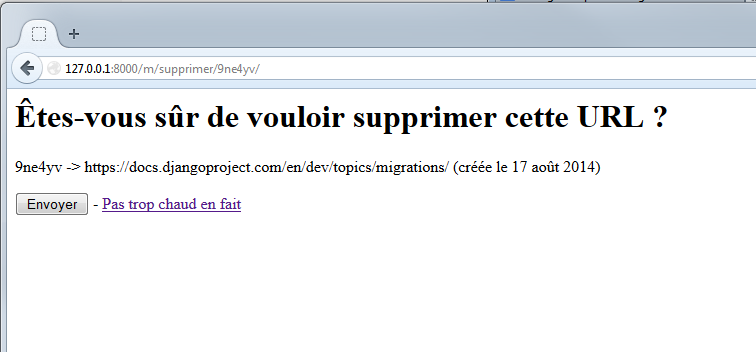
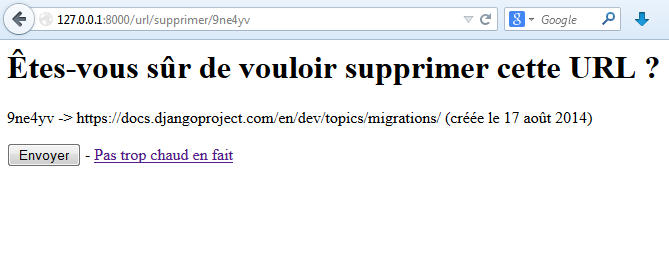
maj vues generiques

Changed region(s): [[0.0, 0.0, 1.0, 1.0]]

diff --git a/3-techniques-avancees/Chapitre_1-les-vues-generiques.md b/3-techniques-avancees/Chapitre_1-les-vues-generiques.md
@@ -1,4 +1,4 @@
-Les vues génériques
+faq/Les vues génériques
 ===================
 
 Sur la plupart des sites web, il existe certains types de pages où créer une vue comme nous l'avons fait précédemment est lourd et presque inutile : pour une simple page HTML sans informations dynamiques par exemple, ou encore de simple listes d'objets sans traitements particuliers. Django est conçu pour n'avoir à écrire que le *minimum* (philosophie DRY), le framework inclut donc un système de vues génériques, qui évite au développeur de devoir écrire des fonctions simples et identiques, nous permettant de gagner du temps et des lignes de code.
@@ -42,11 +42,12 @@ from django.conf.urls import patterns, url, include
 from blog.views import FAQView  # N'oubliez pas d'importer la classe mère
 
 urlpatterns = patterns('',
-   (r'^faq/$', FAQView.as_view()),   # Nous demandons la vue correspondant à la classe FAQView
+   (r'^faq$', FAQView.as_view()),   # Nous demandons la vue correspondant à la classe FAQView
 )
 ```
 
-C'est tout ! Lorsqu'un visiteur accède à `/blog/faq/`, le contenu du fichier `templates/blog/faq.html` sera affiché. En réalité, la méthode `as_view` de `FAQView` retourne une vue (donc une fonction classique) qui se basera sur ses attributs pour déterminer son fonctionnement. Étant donné que nous avons indiqué un template à utiliser depuis l'attribut `template_name`, la classe l'utilisera pour générer une vue adaptée.
+C'est tout ! Lorsqu'un visiteur accède à `/blog/faq`, le contenu du template `blog/faq.html` sera affiché.   
+En réalité, la méthode `as_view` de `FAQView` retourne une vue (donc une fonction classique) qui se basera sur ses attributs pour déterminer son fonctionnement. Étant donné que nous avons indiqué un template à utiliser depuis l'attribut `template_name`, la classe l'utilisera pour générer une vue adaptée.
 
 Nous avons indiqué précédemment qu'il y avait deux méthodes pour utiliser les vues génériques. Le principe de la seconde est de directement instancier `TemplateView` dans le fichier `urls.py`, en lui passant en argument notre `template_name` :
 
@@ -55,7 +56,7 @@ from django.conf.urls import patterns, url, include
 from django.views.generic import TemplateView  # L'import a changé, attention !
 
 urlpatterns = patterns('',
-   url(r'^faq/', TemplateView.as_view(template_name='blog/faq.html')),
+   url(r'^faq', TemplateView.as_view(template_name='blog/faq.html')),
 )
 ```
 
@@ -123,7 +124,7 @@ urlpatterns = patterns('',
 )
 ```
 
-C'est l'occasion d'expliquer l'intérêt de l'argument `name`. Pour profiter au maximum des possibilités de Django, il est possible d'écrire les URL via la fonction `reverse`, et son tag associé dans les templates. L'utilisation du tag `url` se fera dès lors ainsi : {% url "blog_liste" %}. Cette fonctionnalité ne dépend pas des vues génériques, mais est inhérente au fonctionnement des URL en général. Vous pouvez donc également associer le paramètre `name` à une vue normale.
+C'est l'occasion d'expliquer l'intérêt de l'argument `name`. Pour profiter au maximum des possibilités de Django, il est possible d'écrire les URL via la fonction `reverse`, et son tag associé dans les templates. L'utilisation du tag `url` se fera dès lors ainsi : `{% url "blog_liste" %}`. Cette fonctionnalité ne dépend pas des vues génériques, mais est inhérente au fonctionnement des URL en général. Vous pouvez donc également associer le paramètre `name` à une vue normale.
 
 Ensuite, créons notre classe qui reprendra les mêmes attributs que notre `ListView` de tout à l'heure :
 
@@ -209,9 +210,14 @@ class ListeArticles(ListView):
        return Article.objects.filter(categorie__id=self.args[0])
 ```
 
-Tâchez tout de même de vous poser des limites, le désavantage ici est le suivant : la lecture de votre `urls.py` devient plus difficile, tout comme votre vue (imaginez si vous avez quatre arguments, à quoi correspond le deuxième ? le quatrième ?).
+Il est bien entendu possible de nommer les arguments également. Dans ce cas, il faut utiliser l'attribut kwargs au lieu de args. Ainsi, avec `r'categorie/(?P<id>\d+)'`, on obtient :
 
-Enfin, il est possible d'ajouter des éléments au contexte, c'est-à-dire les variables qui sont renvoyées au template. Par exemple, renvoyer l'ensemble des catégories, afin de faire une liste de liens vers celles-ci. Pour ce faire, nous allons ajouter au tableau `context` une clé `categories` qui contiendra notre liste :
+```python
+def get_queryset(self):
+    return Article.objects.filter(categorie__id=self.kwargs['id'])
+```
+
+Pour finir, il est possible d'ajouter des éléments au contexte, c'est-à-dire les variables qui sont renvoyées au template. Par exemple, renvoyer l'ensemble des catégories, afin de faire une liste de liens vers celles-ci. Pour ce faire, nous allons ajouter au tableau `context` une clé `categories` qui contiendra notre liste :
 
 ```python
 def get_context_data(self, **kwargs):
@@ -236,7 +242,8 @@ Il est facile d'afficher la liste des catégories dans notre template :
 Afficher un article via DetailView
 ----------------------------------
 
-Malgré tout cela, nous ne pouvons afficher que des listes, et non pas un objet précis. Heureusement, la plupart des principes vus précédemment avec les classes héritant de `ListView` sont applicables avec celles qui héritent de `DetailView`. Le but de `DetailView` est de renvoyer un seul objet d'un modèle, et non une liste. Pour cela, il va falloir passer un paramètre bien précis dans notre URL : `pk`, qui représentera *la clé primaire de l'objet à récupérer* :
+Malgré tout cela, nous ne pouvons afficher que des listes, et non pas un objet précis. Heureusement, la plupart des principes vus précédemment avec les classes héritant de `ListView` sont applicables avec celles qui héritent de `DetailView`.  
+Le but de `DetailView` est de renvoyer un seul objet d'un modèle, et non une liste. Pour cela, il va falloir passer un paramètre bien précis dans notre URL : `pk`, qui représentera *la clé primaire de l'objet à récupérer* :
 
 ```python
 from blog.views import ListeArticles, LireArticle
@@ -266,7 +273,7 @@ class LireArticle(DetailView):
 <div class="contenu">{{ article.contenu|linebreaks }}</div>
 ```
 
-Comme pour les `ListView`, il est possible de personnaliser la sélection avec get_queryset, afin de ne sélectionner l'article que s'il est public par exemple. Une autre spécificité utile lorsque nous affichons un objet, c'est d'avoir la possibilité de modifier un de ses attributs, par exemple son nombre de vues ou sa date de dernier accès. Pour faire cette opération, il est possible de surcharger la méthode `get_object`, qui renvoie l'objet à afficher :
+Comme pour les `ListView`, il est possible de personnaliser la sélection avec `get_queryset`, afin de ne sélectionner l'article que s'il est public par exemple. Une autre spécificité utile lorsque nous affichons un objet, c'est d'avoir la possibilité de modifier un de ses attributs, par exemple son nombre de vues ou sa date de dernier accès. Pour faire cette opération, il est possible de surcharger la méthode `get_object`, qui renvoie l'objet à afficher :
 
 ```python
 class LireArticle(DetailView):
@@ -313,11 +320,12 @@ class URLCreate(CreateView):
     success_url = reverse_lazy(liste)
 ```
 
-Comme tout à l'heure, l'attribut model permet de spécifier avec quel modèle nous travaillons, et template_name permet de spécifier le chemin vers le template (par défaut, le chemin est `<app>/<model>_create_form.html`, avec le nom du modèle tout en minuscules). La nouveauté ici réside dans les deux attributs suivants. Le premier, `form_class` permet de spécifier quel `ModelForm` utiliser pour *définir les champs disponibles à l'édition*, et tout ce qui est propriété du formulaire. Ici, nous allons réutiliser la classe que nous avions écrite précédemment étant donné qu'elle est suffisante pour l'exemple.
+Comme tout à l'heure, l'attribut `model` permet de spécifier avec quel modèle nous travaillons, et template_name permet de spécifier le chemin vers le template (par défaut, le chemin est `<app>/<model>_create_form.html`, avec le nom du modèle tout en minuscules).  
+La nouveauté ici réside dans les deux attributs suivants. Le premier, `form_class` permet de spécifier quel `ModelForm` utiliser pour *définir les champs disponibles à l'édition*, et tout ce qui est propriété du formulaire. Ici, nous allons réutiliser la classe que nous avions écrite précédemment étant donné qu'elle est suffisante pour l'exemple.
 
 Le dernier argument permet quant à lui de spécifier vers où rediriger l'utilisateur quand le formulaire est validé et enregistré. Nous avons utilisé ici `reverse_lazy`, qui permet d'utiliser la méthode `reverse()`, même si la configuration des URL n'a pas encore eu lieu (ce qui est le cas ici, puisque les vues génériques, faites par des classes sont interprétées en Python avant l'éxécution des `urls.py`).
 
-Le comportement de cette classe est similaire à notre ancienne vue `nouveau()` : s'il n'y a pas eu de requêtes de type *POST*, elle affiche le formulaire, selon les propriétés de `form_class`, et dans le template fourni. Une fois validé et si, et seulement si, le formulaire est considéré comme correct (`if form.is_valid()` dans notre ancienne vue), alors la méthode save() est appelée sur l'objet généré par le formulaire, puis redirige l'utilisateur vers l'URL `success_url`.
+Le comportement de cette classe est similaire à notre ancienne vue `nouveau()` : s'il n'y a pas eu de requêtes de type *POST*, elle affiche le formulaire, selon les propriétés de `form_class`, et dans le template fourni. Une fois validé et si, et seulement si, le formulaire est considéré comme correct (`if form.is_valid()` dans notre ancienne vue), alors la méthode `save()` est appelée sur l'objet généré par le formulaire, puis redirige l'utilisateur vers l'URL `success_url`.
 
 Notre template est déjà prêt pour cette vue, puisque l'objet `Form` renvoyé par cette vue générique est nommé `form`, en minuscules, comme nous l'avions fait avec l'ancienne méthode. Il nous faut juste éditer le fichier `urls.py` :
 
@@ -327,8 +335,8 @@ from views import URLCreate
 
 urlpatterns = patterns('mini_url.views',
     url(r'^$', 'liste', name='url_liste'),  # Une string vide indique la racine
-    url(r'^nouveau/$', URLCreate.as_view(), name='url_nouveau'),
-    url(r'^(?P<code>\w{6})/$', 'redirection', name='url_redirection'),  # (?P<code>\w{6}) capturera 6 caractères alphanumériques.
+    url(r'^nouveau$', URLCreate.as_view(), name='url_nouveau'),
+    url(r'^(?P<code>\w{6})$', 'redirection', name='url_redirection'),  # (?P<code>\w{6}) capturera 6 caractères alphanumériques.
 )
 ```
 
@@ -368,14 +376,15 @@ par
 Puisque nous utilisons cette page pour deux types d'actions, ayant deux URL distinctes, il suffit de se dire : « *Quand nous validons le formulaire, nous soumettons la requête à la même adresse que la page actuelle.* » Il ne reste plus qu'à modifier notre `urls.py`. Comme pour `DetailView`, il faut récupérer la clé primaire, appelée `pk`. Pas de changement profond, voici la ligne :
 
 ```python
-url(r'^edition/(?P<pk>\d)/$', URLUpdate.as_view(), name='url_update'),  # Pensez à importer URLUpdate en début de fichier
+# Pensez à importer URLUpdate en début de fichier
+url(r'^edition/(?P<pk>\d)$', URLUpdate.as_view(), name='url_update'),  
 ```
 
 Désormais, vous pouvez accéder à l'édition d'un objet `MiniURL`. Pour y accéder, cela se fait depuis les adresses suivantes : `/url/edition/1` pour le premier objet, `/url/edition/2` pour le deuxième, etc.
 
 Vous pouvez le constater sur la figure suivante : le résultat est satisfaisant. Bien évidemment, la vue est très minimaliste : n'importe qui peut éditer tous les liens, il n'y a pas de message de confirmation, etc. Par contre, il y a une gestion des objets qui n'existe pas en renvoyant une page d'erreur 404, des formulaires incorrects, etc. Tout cela est améliorable.
 
-# screenshot ici
+![Exemple de formulaire de mise à jour, reprenant le même template que l'ajout](images/UpdateView.png)
 
 #### Améliorons nos URL avec la méthode get_object()
 
@@ -383,7 +392,7 @@ Pour le moment, nous utilisons l'identifiant numérique, nommé `pk`, qui est la
 
 ![Ce que nous avons actuellement et ce que nous souhaitons avoir](images/url_pk_et_cle.png)
 
-Nous savons que chaque entrée possède un code unique donc il n'y a pas de soucis d'unicité. Surchargeons donc la méthode `get_object`, qui s'occupe de récupérer l'objet à mettre à jour.
+Nous savons que chaque entrée possède un code unique donc il n'y a pas de soucis d'unicité. Surchargeons alors la méthode `get_object`, qui s'occupe de récupérer l'objet à mettre à jour.
 
 ```python
 class URLUpdate(UpdateView):
@@ -397,10 +406,10 @@ class URLUpdate(UpdateView):
            return get_object_or_404(MiniURL, code=code)
 ```
 
-Nous utilisons encore une fois la fonction `get_object_or_404`, qui nous permet de renvoyer une page d'erreur si jamais le code demandé n'existe pas. Le code de l'adresse est accessible depuis le dictionnaire `self.kwargs`, qui contient les arguments nommés dans l'URL (précédemment, les arguments de `ListView` n'étaient pas nommés). Il faut donc changer un peu `urls.py` également, pour accepter l'argument `code`, qui prend des lettres et des chiffres :
+Nous utilisons encore une fois la fonction `get_object_or_404`, qui nous permet de renvoyer une page d'erreur si jamais le code demandé n'existe pas. Le code de l'adresse est accessible depuis le dictionnaire `self.kwargs`, qui contient les arguments nommés dans l'URL. Il faut donc changer un peu `urls.py` également, pour accepter l'argument `code`, qui prend des lettres et des chiffres :
 
 ```python
-url(r'^edition/(?P<code>\w{6})/$', URLUpdate.as_view(), name='url_update'),  # Le code est composé de 6 chiffres/lettres
+url(r'^edition/(?P<code>\w{6})$', URLUpdate.as_view(), name='url_update'),
 ```
 
 
@@ -442,7 +451,7 @@ Toujours pareil, la vue est associée à notre modèle, un template, et une URL 
 ```html
 <h1>Êtes-vous sûr de vouloir supprimer cette URL ?</h1>
 
-<p>{{ mini_url.code }} -> {{ mini_url.url }} (créée le {{ mini_url.date|date:"DATE_FORMAT" }})</p>
+<p>{{ mini_url.code }} -&gt; {{ mini_url.url }} (créée le {{ mini_url.date|date:"DATE_FORMAT" }})</p>
 
 <form method="post" action="">
    {% csrf_token %}  <!-- Nous prenons bien soin d'ajouter le csrf_token -->
@@ -454,7 +463,8 @@ Encore une fois, notre ligne en plus dans le fichier `urls.py` ressemble beaucou
 
 
 ```python
-url(r'^supprimer/(?P<code>\w{6})/$', URLDelete.as_view(), name='url_delete'),  # Ne pas oublier l'import de URLDelete !
+# Ne pas oublier l'import de URLDelete !
+url(r'^supprimer/(?P<code>\w{6})$', URLDelete.as_view(), name='url_delete'),  
 ```
 
 Afin de faciliter le tout, deux liens ont été ajoutés dans la liste définie dans le template `liste.html`, afin de pouvoir mettre à jour ou supprimer une URL rapidement : 
@@ -487,9 +497,19 @@ Même refrain : nous enregistrons, et nous pouvons tester grâce au lien ajouté
 
 Ce chapitre touche à sa fin. Néanmoins, nous n'avons même pas pu vous présenter toutes les spécificités des vues génériques ! Il existe en effet une multitude de classes de vues génériques, mais aussi d'attributs et méthodes non abordés ici. Si vous voulez avoir une petite idée de l'étendue du sujet, [le site ccbv.co.uk](http://ccbv.co.uk) présente une documentation exhaustive sur les vues génériques de Django. 
 
-Nous avons essayé de vous présenter les plus communes, celles qui vous seront probablement le plus utile, mais il est clairement impossible de tout présenter sans être indigeste, vu la taille de ce diagramme. Par exemple, nous avons décidé de ne pas couvrir toutes les classes qui permettent de faire des pages de tri par date ou d'archives. 
+Nous avons présenté les plus communes, celles qui vous seront probablement le plus utile, mais il est clairement impossible de tout présenter sans être indigeste. Par exemple, nous avons décidé de ne pas couvrir toutes les classes qui permettent de faire des pages de tri par date ou d'archives. 
 Si vous souhaitez en savoir plus, ces deux liens vous seront plus qu'utiles :
 
 
 - [Documentation officielle sur les vues génériques](https://docs.djangoproject.com/en/dev/ref/class-based-views/) ;
 - [Documentation non officielle mais très complète, listant les attributs et méthodes de chaque classe](http://ccbv.co.uk/).
+
+Ce qu'il faut retenir, c'est que Django vous propose un mécanisme générique pour les cas simples. Cependant, il ne faut pas en abuser, notamment si vous faites plus qu'afficher une simple liste ou un objet. 
+
+En résumé
+---------
+- Django fournit un ensemble de classes permettant d'éviter de réécrire plusieurs fois le même type de vue (affichage d'un template statique, liste d'objets, création d'objets…) ;
+- Les vues génériques peuvent être déclarées directement au sein de `urls.py` (cas le plus pratique pour les `TemplateView`) ou dans `views.py` ;
+- Chaque vue générique dispose d'un ensemble d'attributs permettant de définir ce que doit faire la vue : modèle concerné, template à afficher, gestion de la pagination, filtres… ;
+- Il est possible d'automatiser les formulaires d'ajout, de mise à jour et de suppression d'objets via des vues génériques ;
+- Le module `django.views.generic` regorge de classes (plusieurs dizaines en tout), n'hésitez pas à regarder si l'une d'entre elles fait ce que vous souhaitez avant de vous lancer.
